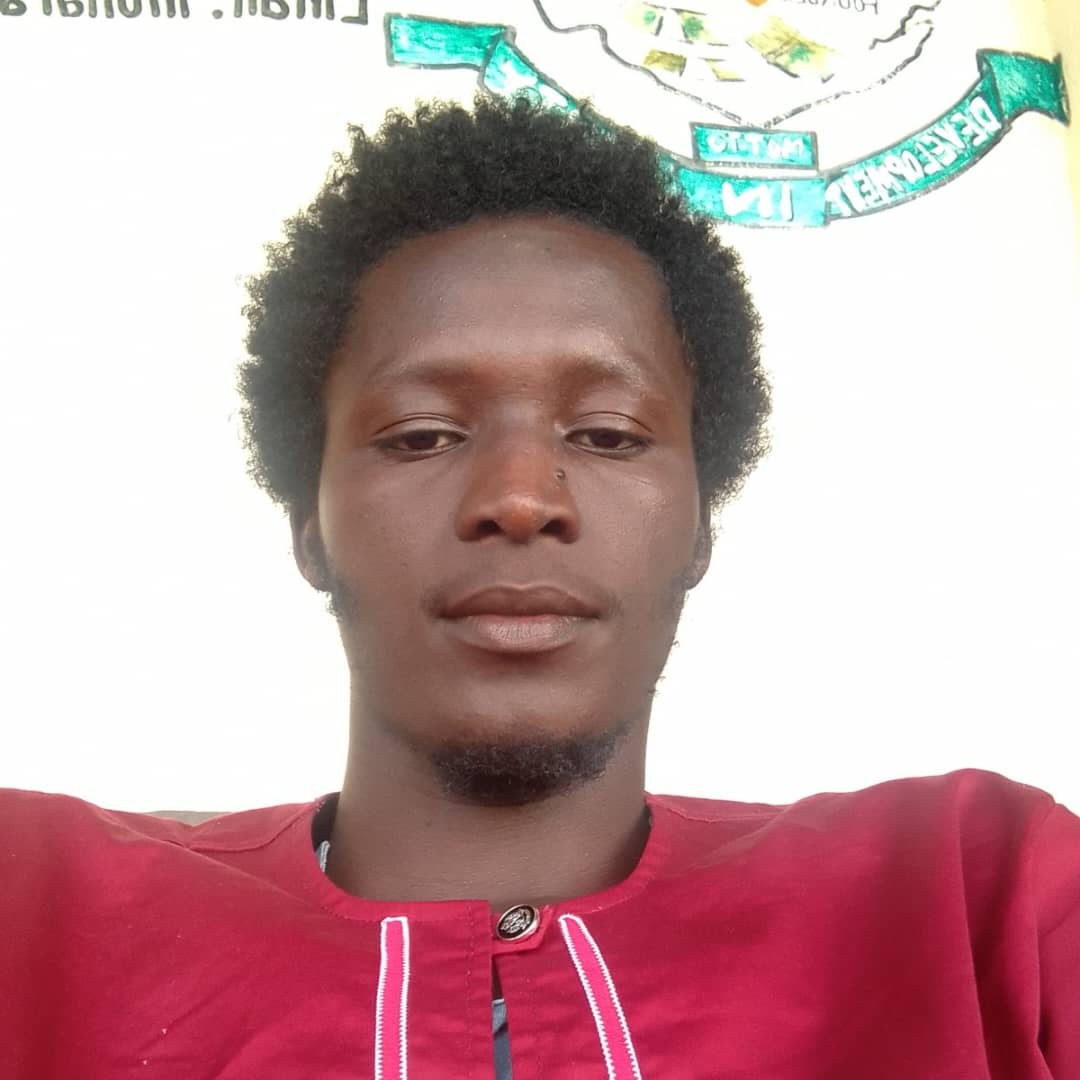
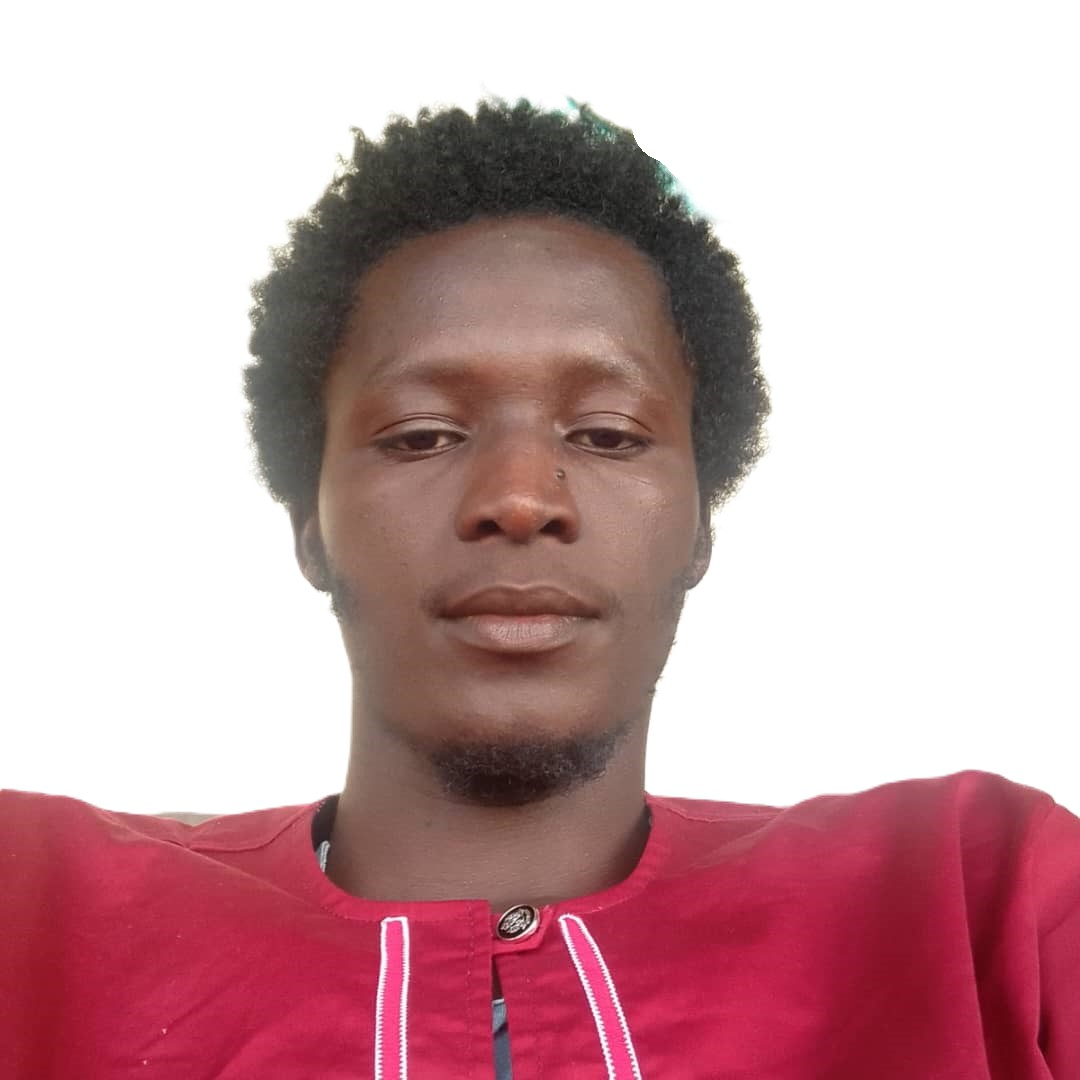
Add files via upload

diff --git a/style.css b/style.css
@@ -31,5 +31,8 @@ img {
     float: left;
     width: 300px;
     height: 300px;
+    border-radius: 10%;
+    border: 3px solid blue;
+    object-fit: contain;
 }
 }
